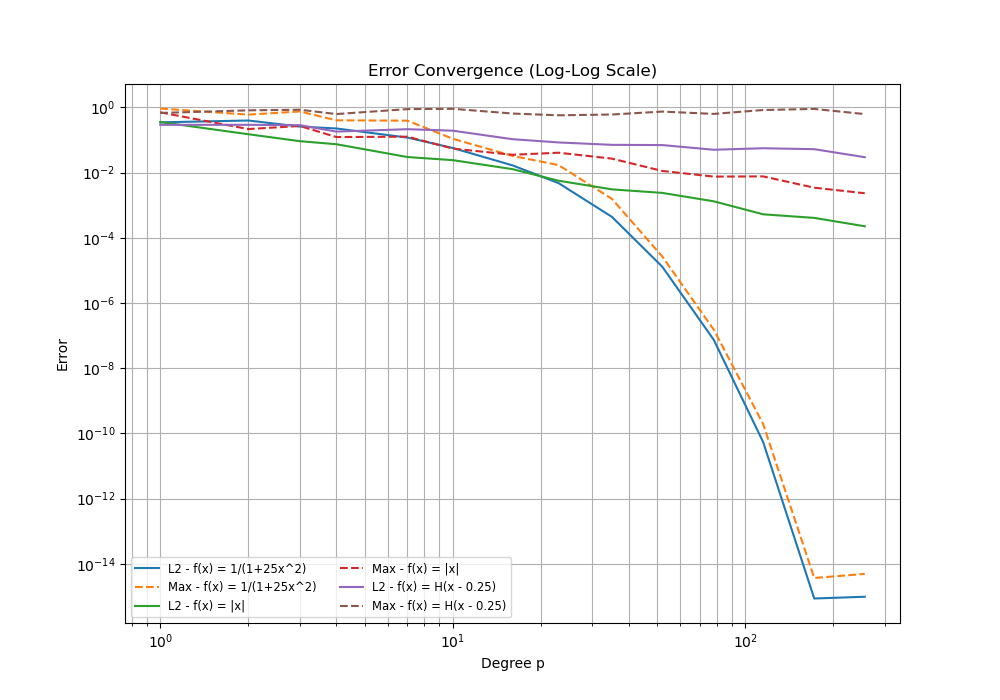
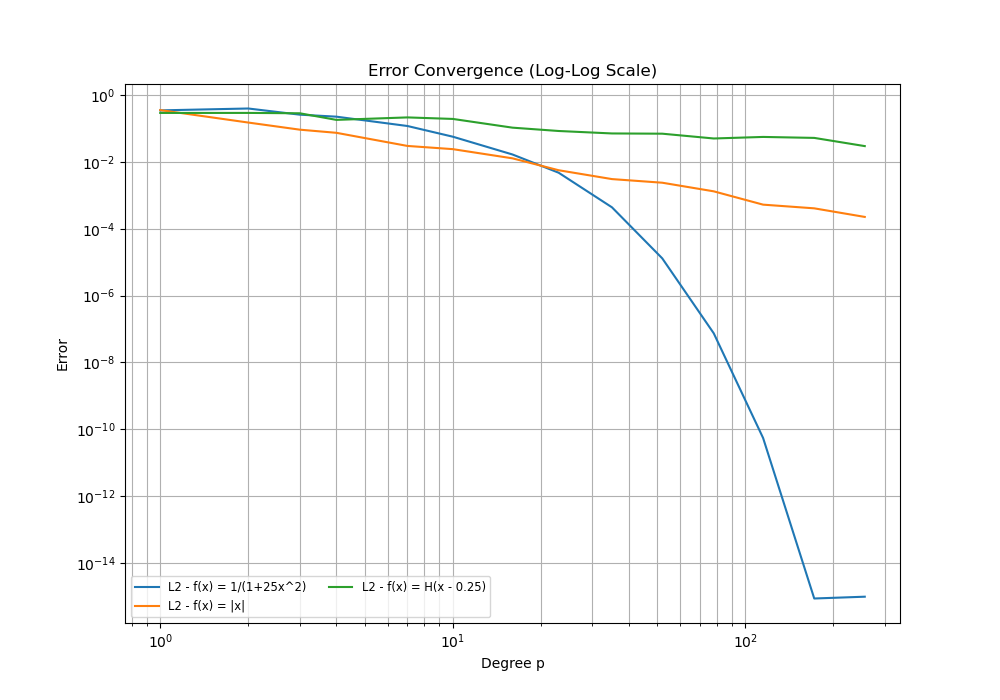
graph change

diff --git a/p1/p1.py b/p1/p1.py
@@ -74,13 +74,10 @@ for func, name in functions:
         f_val = func(x_fine)
         
         l2 = np.sqrt(np.mean((g_x - f_val)**2))
-        max_err = np.max(np.abs(g_x - f_val))
         
         l2_errors.append(l2)
-        max_errors.append(max_err)
     
     ax2.loglog(p_vals, l2_errors, label=f"L2 - {name}")
-    ax2.loglog(p_vals, max_errors, '--', label=f"Max - {name}")
 
 ax2.set_xlabel("Degree p")
 ax2.set_ylabel("Error")
